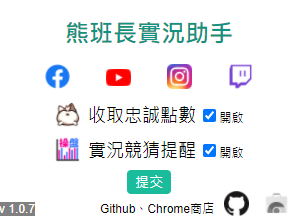
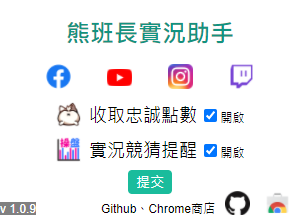
v1.0.10
修正部分已知Bug
新增Chrome商店網址
新增街口支付鼓勵方式

diff --git a/熊班長實況助手/popup/popup.html b/熊班長實況助手/popup/popup.html
@@ -41,10 +41,10 @@
             </div>
         </div>
         <div class="row" style="text-align: center; ">
-            <span style="position: absolute; left: 0px; bottom: 0px; color: white; background-color: gray;">v 1.0.9</span>
+            <span style="position: absolute; left: 0px; bottom: 0px; color: white; background-color: gray;">v 1.0.10</span>
             <span style="position: absolute; right: 85px; bottom: 0px;">Github、Chrome商店</span>
             <a id="GitHubrbutton" class="btn btn-default" style="margin: 10px; cursor: pointer;"><img src="../icons/GitHub.png" style="width: 25px; position:absolute; right:50px;"></a>
-            <a id="Chrome_Storebutton" class="btn btn-default" style="margin: 10px; cursor: not-allowed;;"><img src="../icons/chrome_store.png" style="width: 25px; -webkit-filter: grayscale(1); position:absolute; right:10px;"></a>
+            <a id="ChromeStorebutton" class="btn btn-default" style="margin: 10px; cursor: pointer;;"><img src="../icons/chrome_store.png" style="width: 25px;position:absolute; right:10px;"></a>
 
         </div>
         <!-- <div class="row" style="text-align:right; padding-top: 10px;">

diff --git a/熊班長實況助手/popup/main.js b/熊班長實況助手/popup/main.js
@@ -1,12 +1,13 @@
 document.addEventListener('DOMContentLoaded', function(dcle) {
 
     //#region icon, url
-    var buttonName = ["FBbutton", "Youtubebutton", "Instagrambutton", "Twitchbutton", "GitHubrbutton"];
+    var buttonName = ["FBbutton", "Youtubebutton", "Instagrambutton", "Twitchbutton", "GitHubrbutton", "ChromeStorebutton"];
     var buttonUrl = ["https://www.facebook.com/NeVeRLosEs",
         "https://www.youtube.com/channel/UCRdJzOsu4MwKmY04vfAIDHw",
         "https://www.instagram.com/nln1nl/?hl=zh-tw",
         "https://www.twitch.tv/never_loses",
         "https://github.com/JinWei0811/TwitchNLHelper",
+        "https://chrome.google.com/webstore/detail/nlnlouo/dhokajppblijnlidbgdphkpjbocpnhec?hl=zh-TW&authuser=0",
     ];
     for (var i = 0; i < buttonName.length; i++) {
         var button = document.getElementById(buttonName[i]);

diff --git a/熊班長實況助手/popup/style.css b/熊班長實況助手/popup/style.css
@@ -8,7 +8,7 @@ H1 {
 }
 
 #app {
-    height: 200px;
+    height: 250px;
     width: 400px;
     display: flex;
     flex-wrap: wrap;

diff --git a/README.md b/README.md
@@ -2,6 +2,9 @@
 
 ![GITHUB]( https://github.com/JinWei0811/-/blob/main/interface.png "interface")
 
+## 給作者一點鼓勵：
+街口支付連結：https://www.jkopay.com/transfer?j=Transfer:901329725
+![GITHUB]( https://github.com/JinWei0811/TwitchNLHelper/blob/main/JKOPay.png "JKOPay")
 
 ## 主要提供功能
 - <p><a href="https://www.facebook.com/NeVeRLosEs">熊班長（NeVeR_LosEs）FaceBook 連結</a></p>
@@ -52,12 +55,15 @@
 
 ## 更新資訊：
 
+<h4>1.0.10</h4>
+1. <strong>修正部分已知Bug</strong> <br>
+2. <strong>添加Chrome商店按鈕網址</strong>
+
 <h4>1.0.9</h4>
 1. <strong>修正賭盤監測Bug</strong> <br>
 2. <strong>如果不確定他是否有進行監測，可以按F12到Console監測</strong> <br>
 
 ![GITHUB]( https://github.com/JinWei0811/TwitchNLHelper/blob/main/Detection.png "Detection")
-
 
 
 <h4>1.0.8</h4>
@@ -80,5 +86,3 @@
 1. <strong>此為第一版</strong>
 
 <hr>
-
-## 給作者一點鼓勵：
